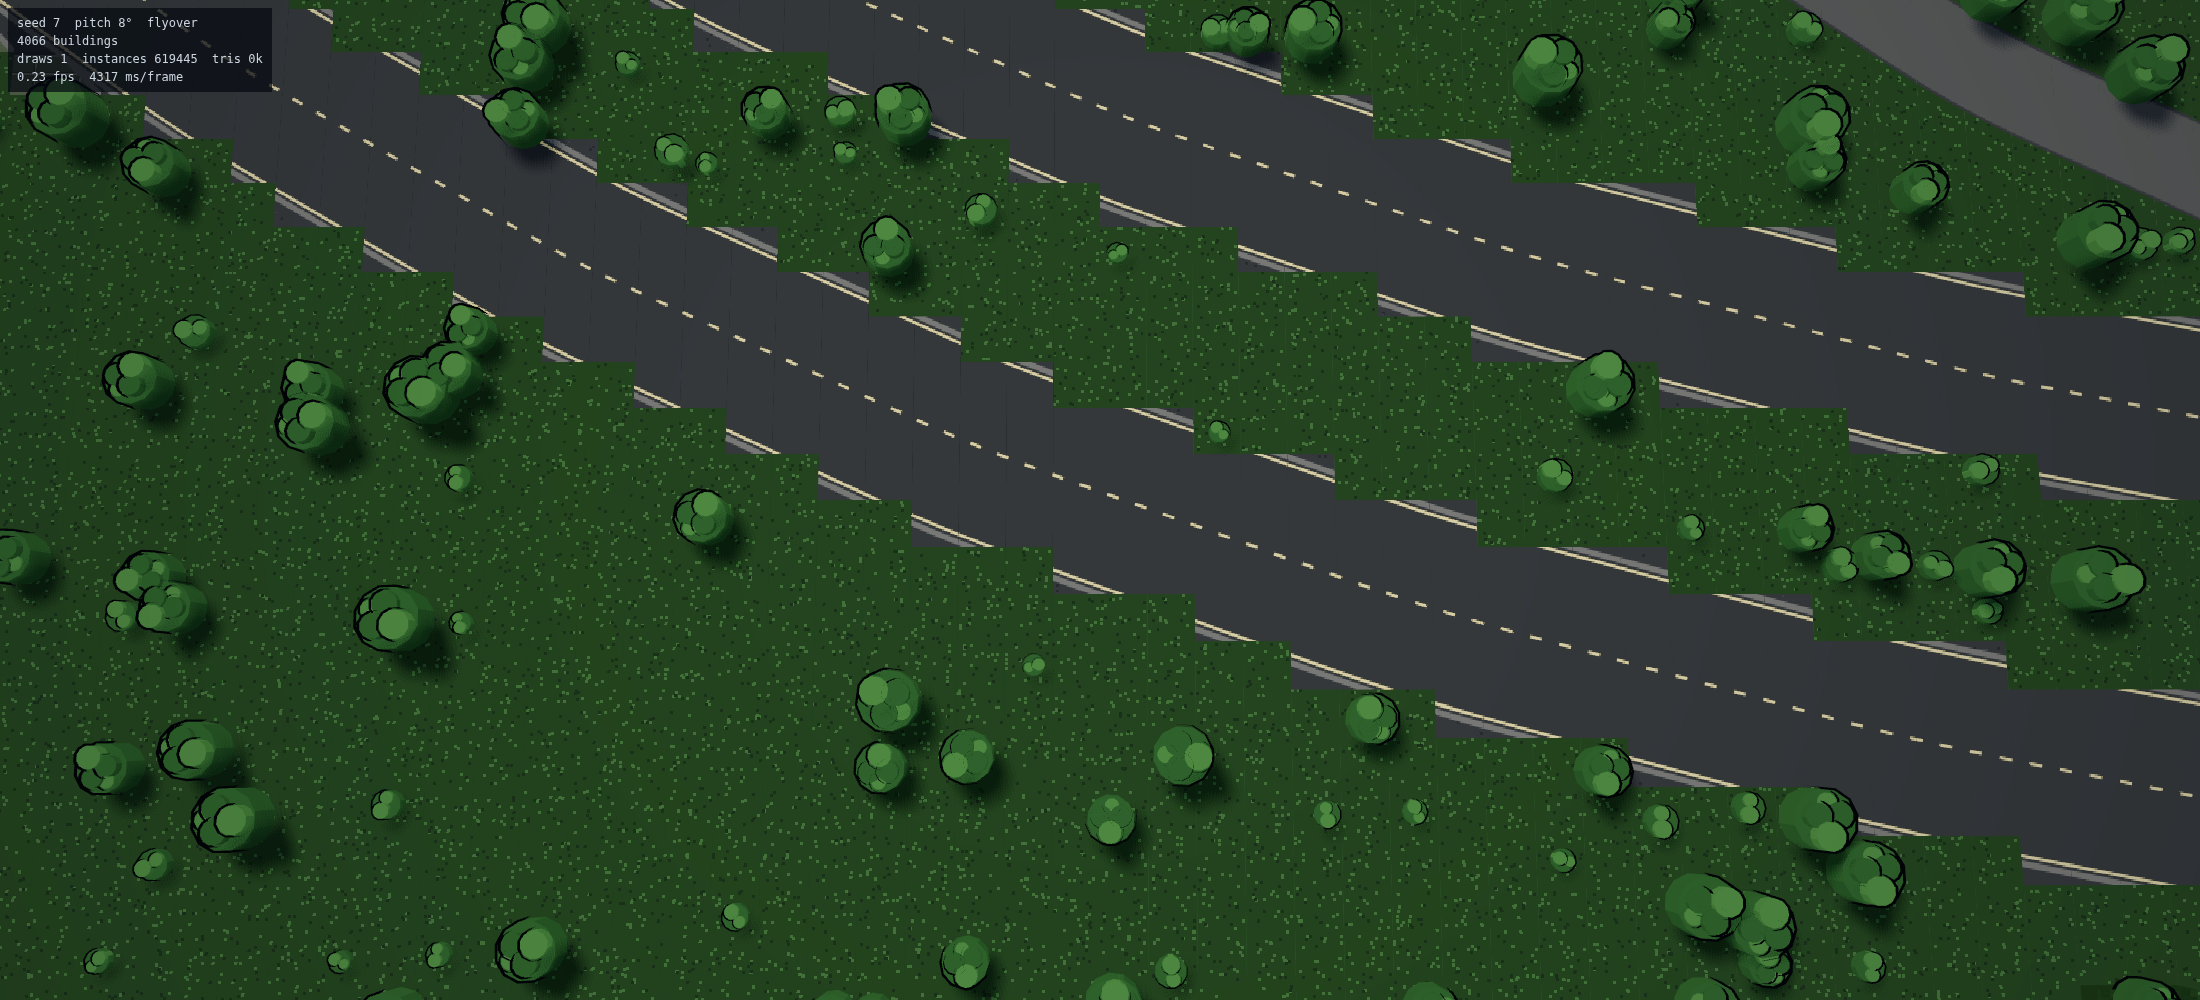
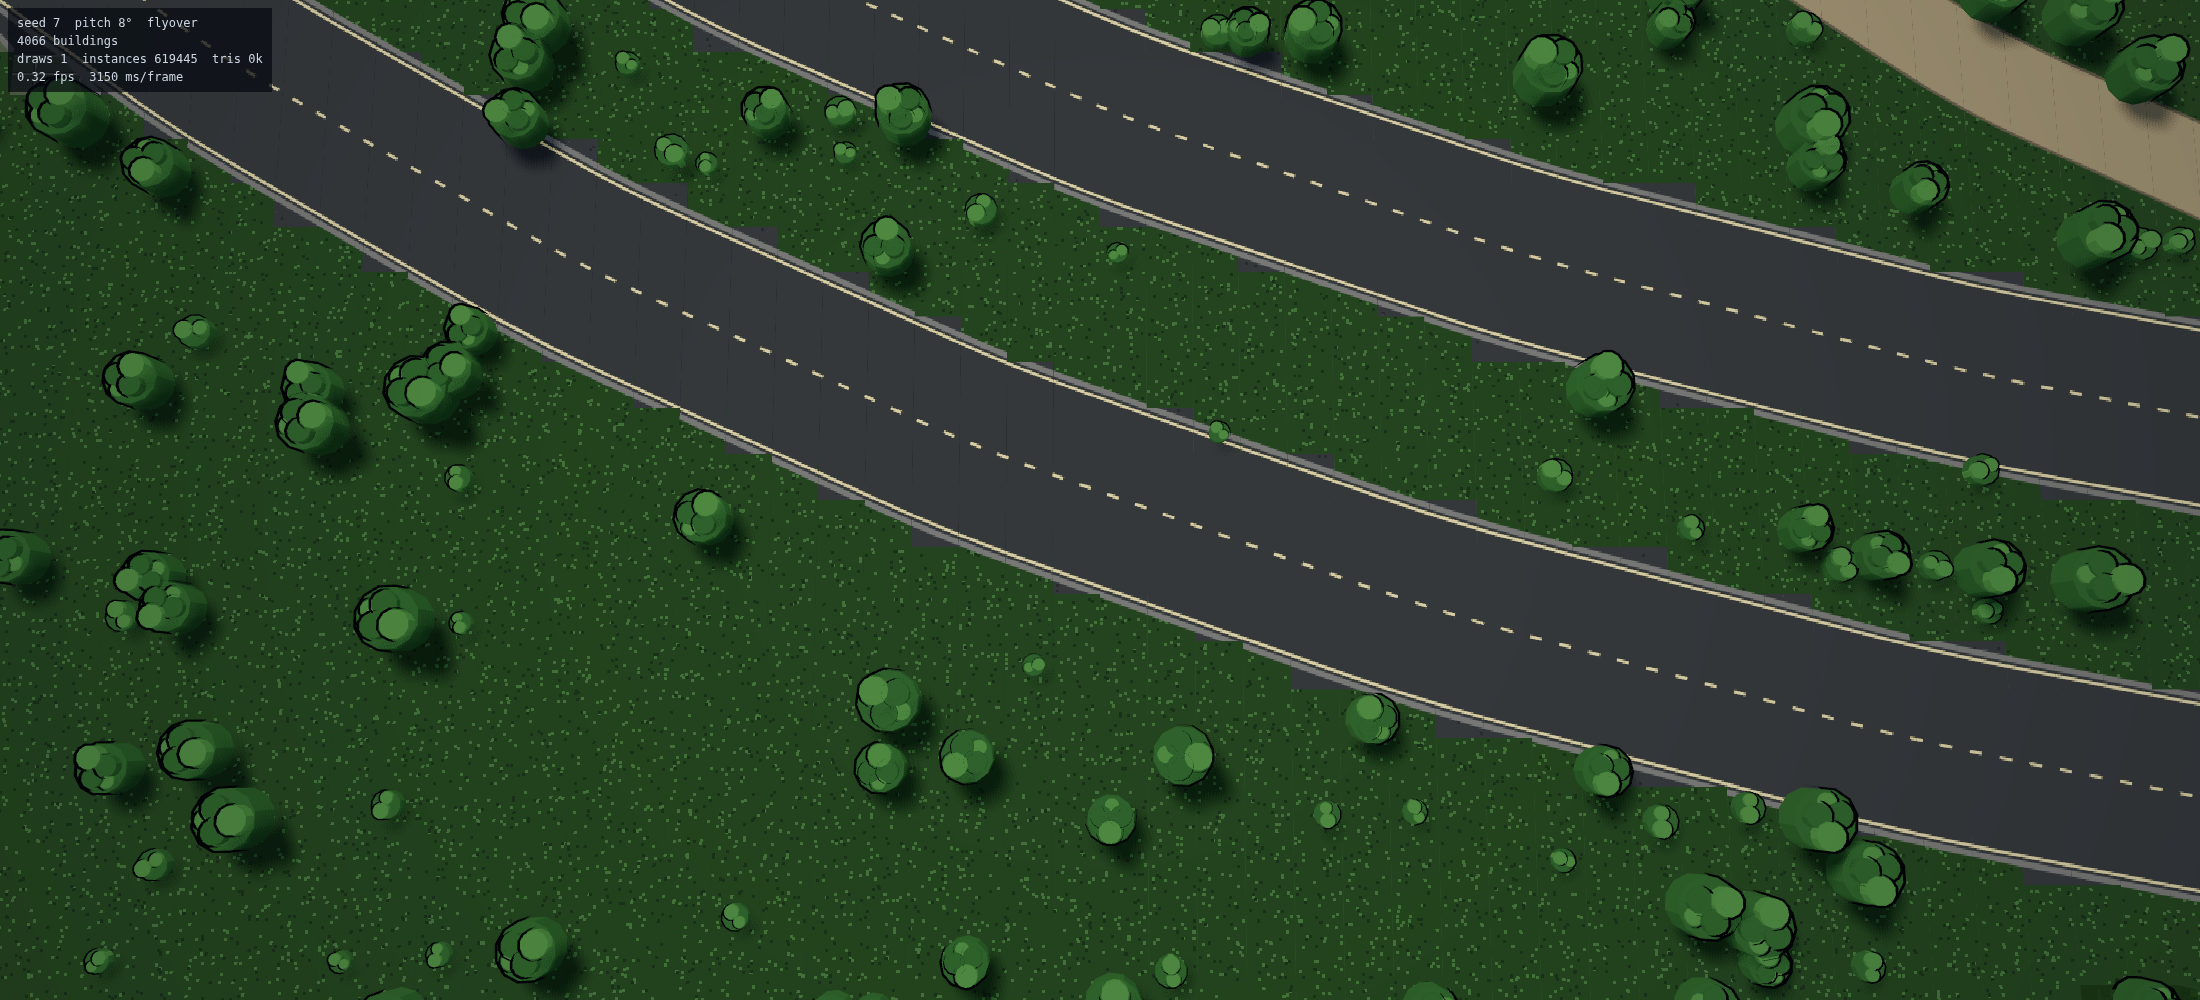
worldgen 3.2 follow-up: the path palette, and the rural saw-tooth
Two corrections from 3.2's own retakes. The walk was stroked in sidewalk
grey, and a two-tile grey band through a wood reads as a pale road; the
plan said "path palette" and meant it - walks are packed stone now
(palette.path, the quays' warm tone with a darker rim).

The south retake was dominated by saw-toothed carriageway edges: wave
1's clip holds the ribbon to ground that carries a road, the city's kerb
bands absorbed the overhang everywhere the old retakes looked, and open
country has no kerb band - every diagonal rural stretch showed grass
teeth along both edges (byte-identical in an A/B against the pre-3.2
bake, so long-standing, not a regression). The clip now admits soft
natural ground - grass, field, sand - inside the ribbon's own painted
reach (courseApron, swept stroke-plus-casing wide); water, walls, lots
and woodland stay refused, keeping the sea-painted-as-tarmac class the
clip was built against impossible.

Renderer only; no rebake, no test surface. Retakes updated in place.

Claude-Session: https://claude.ai/code/session_0162iE6aifEzfrq9Nwxox2dg

diff --git a/client/src/render/tiles.ts b/client/src/render/tiles.ts
@@ -356,6 +356,17 @@ export class TileLayer {
    */
   private pathCover: Uint8Array | null = null;
   /**
+   * Tiles within a road ribbon's PAINTED reach — the stroke plus its kerb
+   * casing — a shade wider than `courseCover`. The clip consults it for the
+   * soft-ground exception: where a diagonal road runs through open country
+   * there is no kerb band to hide the rasterised staircase, and holding the
+   * ribbon strictly to the band's tiles saw-toothed every rural carriageway
+   * edge. Soft natural ground under the ribbon's own footprint may take the
+   * paint; everything the clip exists to protect — water, walls, lots — is
+   * still refused, so §2.2's sea-painted-as-tarmac stays fixed.
+   */
+  private courseApron: Uint8Array | null = null;
+  /**
    * Where the courses cross, from the CURVES (§26). The centre dash is
    * punched out of these: a junction is bare asphalt, which is the rule the
    * per-tile painter has always followed and the ribbon painter never did.
@@ -436,6 +447,7 @@ export class TileLayer {
     this.ribbons = [];
     this.courseCover = null;
     this.pathCover = null;
+    this.courseApron = null;
     this.junctionDiscs = [];
     const courses = map.courses ?? [];
     if (courses.length === 0) return;
@@ -445,6 +457,7 @@ export class TileLayer {
     this.junctionDiscs = courseJunctions(courses.filter((c) => c.kind !== 'path'));
     const cover = new Uint8Array(map.widthTiles * map.heightTiles);
     const pathCover = new Uint8Array(map.widthTiles * map.heightTiles);
+    const apron = new Uint8Array(map.widthTiles * map.heightTiles);
     for (const c of courses) {
       const pts = new Float64Array(c.points.length * 2);
       let minX = Infinity;
@@ -484,9 +497,13 @@ export class TileLayer {
       // rounds outward from offset samples, and a carved pavement tile the
       // mask missed would keep its slab paint and stick out of the lawn
       // beside the smooth ribbon. Over-covering is harmless there — the
-      // mask only ever speaks about pavement tiles.
-      const mask = c.kind === 'path' ? pathCover : cover;
-      const half = c.width / 2 + (c.kind === 'path' ? 0.45 : 0.05);
+      // mask only ever speaks about pavement tiles. A road sweeps twice in
+      // one pass: the tight radius into `cover` (marks suppression) and the
+      // painted reach — stroke plus casing plus the quantisation slop — into
+      // `apron`, for the clip's soft-ground exception.
+      const path = c.kind === 'path';
+      const half = c.width / 2 + (path ? 0.45 : 0.55);
+      const inner = c.width / 2 + 0.05;
       for (let k = 0; k + 1 < c.points.length; k++) {
         const [ax, ay] = c.points[k] as readonly [number, number];
         const [bx, by] = c.points[k + 1] as readonly [number, number];
@@ -504,13 +521,32 @@ export class TileLayer {
             const t = Math.max(0, Math.min(1, (px * dx + py * dy) / len2));
             const qx = px - t * dx;
             const qy = py - t * dy;
-            if (qx * qx + qy * qy <= half * half) mask[ty * map.widthTiles + tx] = 1;
+            const d2 = qx * qx + qy * qy;
+            if (d2 > half * half) continue;
+            const i = ty * map.widthTiles + tx;
+            if (path) {
+              pathCover[i] = 1;
+            } else {
+              apron[i] = 1;
+              if (d2 <= inner * inner) cover[i] = 1;
+            }
           }
         }
       }
     }
     this.courseCover = cover;
     this.pathCover = pathCover;
+    this.courseApron = apron;
+  }
+
+  /** Soft natural ground inside a road ribbon's painted reach — see `courseApron`. */
+  private softUnderApron(tx: number, ty: number): boolean {
+    const map = this.map;
+    if (map === null || this.courseApron === null) return false;
+    if (tx < 0 || ty < 0 || tx >= map.widthTiles || ty >= map.heightTiles) return false;
+    if (this.courseApron[ty * map.widthTiles + tx] !== 1) return false;
+    const t = map.tiles[ty * map.widthTiles + tx] as number;
+    return t === T_FIELD || t === T_PARK || t === T_SAND;
   }
 
   /**
@@ -573,15 +609,16 @@ export class TileLayer {
         }
       }
       ctx.clip();
-      // A joint-coloured rim, then the slab — the two colours the per-tile
-      // pavement is built from, so walk and kerb read as one material where
-      // they meet at a gate.
-      ctx.strokeStyle = shade(palette.sidewalk, 0.3);
+      // The PATH palette, not the pavement's (the plan's own words): in
+      // sidewalk grey a two-tile walk through a wood read as a pale road.
+      // Packed stone like the quays — warm against the lawn, nothing like
+      // carriageway — with a darker rim for the recessed edge.
+      ctx.strokeStyle = shade(palette.path, 0.35);
       for (const p of walks) {
         ctx.lineWidth = p.w + 2 * t;
         ctx.stroke(p.path);
       }
-      ctx.strokeStyle = palette.sidewalk;
+      ctx.strokeStyle = palette.path;
       for (const p of walks) {
         ctx.lineWidth = p.w;
         ctx.stroke(p.path);
@@ -607,10 +644,20 @@ export class TileLayer {
     // (REVIEW-WORLDGEN.md §2.2). The casing is MEANT to reach past the
     // carriageway onto the kerb band, so pavement stays in. Wave 2.1 trims
     // the courses themselves; this clip stays as defence in depth.
+    //
+    // One refinement (after 3.2's retakes): SOFT natural ground under the
+    // ribbon's own footprint is let in too. In the city a road wears a kerb
+    // band that absorbs the half-tile the stroke overhangs its staircase;
+    // through open country there is no band, the clip cut the ribbon to the
+    // raw diagonal staircase, and every rural carriageway edge came out
+    // saw-toothed. Grass, field and sand within the apron take the paint —
+    // ground a car could roll over anyway — while water, walls, lots and
+    // woodland stay refused, so the 385 tiles of sea-painted-as-tarmac this
+    // clip was built against stay impossible.
     ctx.beginPath();
     for (let ty = ty0 - 1; ty <= ty0 + CHUNK_TILES; ty++) {
       for (let tx = tx0 - 1; tx <= tx0 + CHUNK_TILES; tx++) {
-        if (!courseGround(this.tileAt(tx, ty))) continue;
+        if (!courseGround(this.tileAt(tx, ty)) && !this.softUnderApron(tx, ty)) continue;
         ctx.rect((tx - tx0) * TD, (ty - ty0) * TD, TD, TD);
       }
     }

diff --git a/PROGRESS.md b/PROGRESS.md
@@ -1,5 +1,27 @@
 # PROGRESS
 
+## 3.2 follow-up: the path palette, and the rural saw-tooth
+
+Two things in 3.2's own retakes looked very wrong, and both were.
+
+The walk was stroked in sidewalk grey, and a two-tile grey band through
+a wood reads as a pale road — the plan's wording was "path palette" and
+it meant it. The walk is packed stone now (`palette.path`, the quays'
+warm tone with a darker rim), and reads as a park path from any height.
+
+The south retake was dominated by saw-toothed carriageway edges: every
+diagonal stretch of the ring through open country had grass teeth a
+half-tile deep along both edges. An A/B against the pre-3.2 bake showed
+it byte-identical — wave 1's clip, which holds the ribbon to ground that
+carries a road, was being absorbed by kerb bands everywhere the city
+retakes looked, and open country has no kerb band to absorb it. The
+clip's predicate now admits SOFT natural ground — grass, field, sand —
+inside the ribbon's own painted reach (`courseApron`, swept stroke plus
+casing wide), so a rural road draws as one smooth ribbon; water, walls,
+lots and woodland stay refused, which keeps the 385 tiles of
+sea-painted-as-tarmac the clip was built against impossible. Renderer
+only, both fixes; no rebake, no test surface.
+
 ## Wave 3.2 of PLAN-WORLDGEN: paths become courses — DELIVERED
 
 The big parks' meander walks were always polylines — `fillPark` built

diff --git a/PLAN-WORLDGEN.md b/PLAN-WORLDGEN.md
@@ -209,7 +209,14 @@ beside the curve that replaced it. The "countryside footpaths" half of
 the original wording found no owner: outside the parks nothing carves
 footpath tiles from a polyline, and the small parks' straight cross-walks
 are axis-aligned (no staircase to fix) — both left as tiles, deliberately.
-Retakes: `evidence/fixed-park-paths.png`, `fixed-park-paths-south.png`.
+Two corrections from the retakes' review: the walk is stroked in a real
+path palette (packed stone, `palette.path`) after the first cut's
+sidewalk grey read as a pale road through the woods; and the retakes
+exposed the RURAL saw-tooth — wave 1's clip held road ribbons to the
+rasterised band, which the city's kerb bands absorbed and open country
+did not — fixed by letting soft natural ground under a ribbon's own
+apron take the paint (water, walls and lots stay refused). Retakes:
+`evidence/fixed-park-paths.png`, `fixed-park-paths-south.png`.
 
 **3.3 Woodland stops being a plinth (M, renderer only).** `T_TREES` renders
 as a flat 1-tile-high green slab that reads as a stain from above. The
